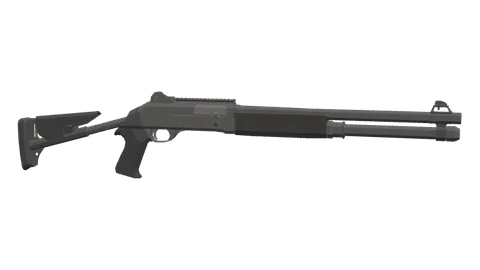
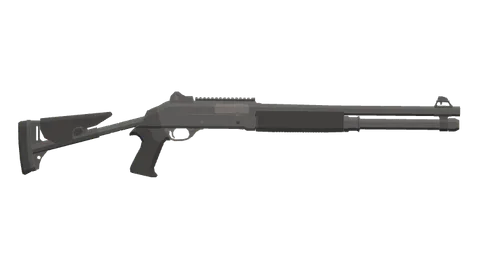
Weapon stills all from the same side view
Orthographic camera, no per-gun turn, so every card shows its gun at the
same angle.

Changed region(s): [[0.0312, 0.3259, 0.9688, 0.6815]]

diff --git a/tooling/assets/thumbnails/page.html b/tooling/assets/thumbnails/page.html
@@ -21,12 +21,15 @@
 			scene.environment = new THREE.PMREMGenerator(renderer).fromScene(new RoomEnvironment(), 0.04).texture
 			scene.add(new THREE.HemisphereLight(0xdfe6ee, 0x2a3129, 1.6))
 			const key = new THREE.DirectionalLight(0xfff1dd, 3)
-			key.position.set(2, 3, 2)
+			key.position.set(1.5, 3, 3)
 			const rim = new THREE.DirectionalLight(0xb8f23c, 1.4)
 			rim.position.set(-3, 1, -2)
 			scene.add(key, rim)
-			const camera = new THREE.PerspectiveCamera(30, canvas.width / canvas.height, 0.01, 50)
-			camera.position.set(0, 0.3, 2.6)
+			// every gun from the same side view, a little from above, without perspective, so the stills all match
+			const half = 0.8
+			const aspect = canvas.width / canvas.height
+			const camera = new THREE.OrthographicCamera(-half * aspect, half * aspect, half, -half, 0.01, 50)
+			camera.position.set(0.25, 0.55, 4)
 			camera.lookAt(0, 0, 0)
 			const loader = new GLTFLoader().setMeshoptDecoder(MeshoptDecoder)
 
@@ -38,13 +41,10 @@
 				const fit = 1.45 / Math.max(size.x, size.y, size.z, 0.01)
 				model.scale.setScalar(fit)
 				model.position.sub(box.getCenter(new THREE.Vector3()).multiplyScalar(fit))
-				const turn = new THREE.Group()
-				turn.rotation.y = -0.35
-				turn.add(model)
-				scene.add(turn)
+				scene.add(model)
 				renderer.render(scene, camera)
 				const data = canvas.toDataURL('image/png')
-				scene.remove(turn)
+				scene.remove(model)
 				return data
 			}
 			window.ready = true

diff --git a/.changeset/look-sound-lobby.md b/.changeset/look-sound-lobby.md
@@ -31,3 +31,4 @@ Characters, weapon models, a new soundscape and a tidier lobby:
 - Missions play like missions: a briefing while the mission loads, the handler or a survivor on the radio as each step starts and ends, a debrief at the end, and more to every mission: zombie nests to burn out (they keep spawning until destroyed), ambushes that hit as a step starts, and a Brute boss with its own health bar. Landfall now has eight steps.
 - Two new zombies: the low, quick Crawler, and the Screamer, whose scream calls a pack in.
 - The guns go by their real names: G17, Desert Eagle, Vector, HK416, M4 Super 90, M249, L115A3, MGL, XM8 and M134.
+- Every weapon picture is taken from the same side view.
